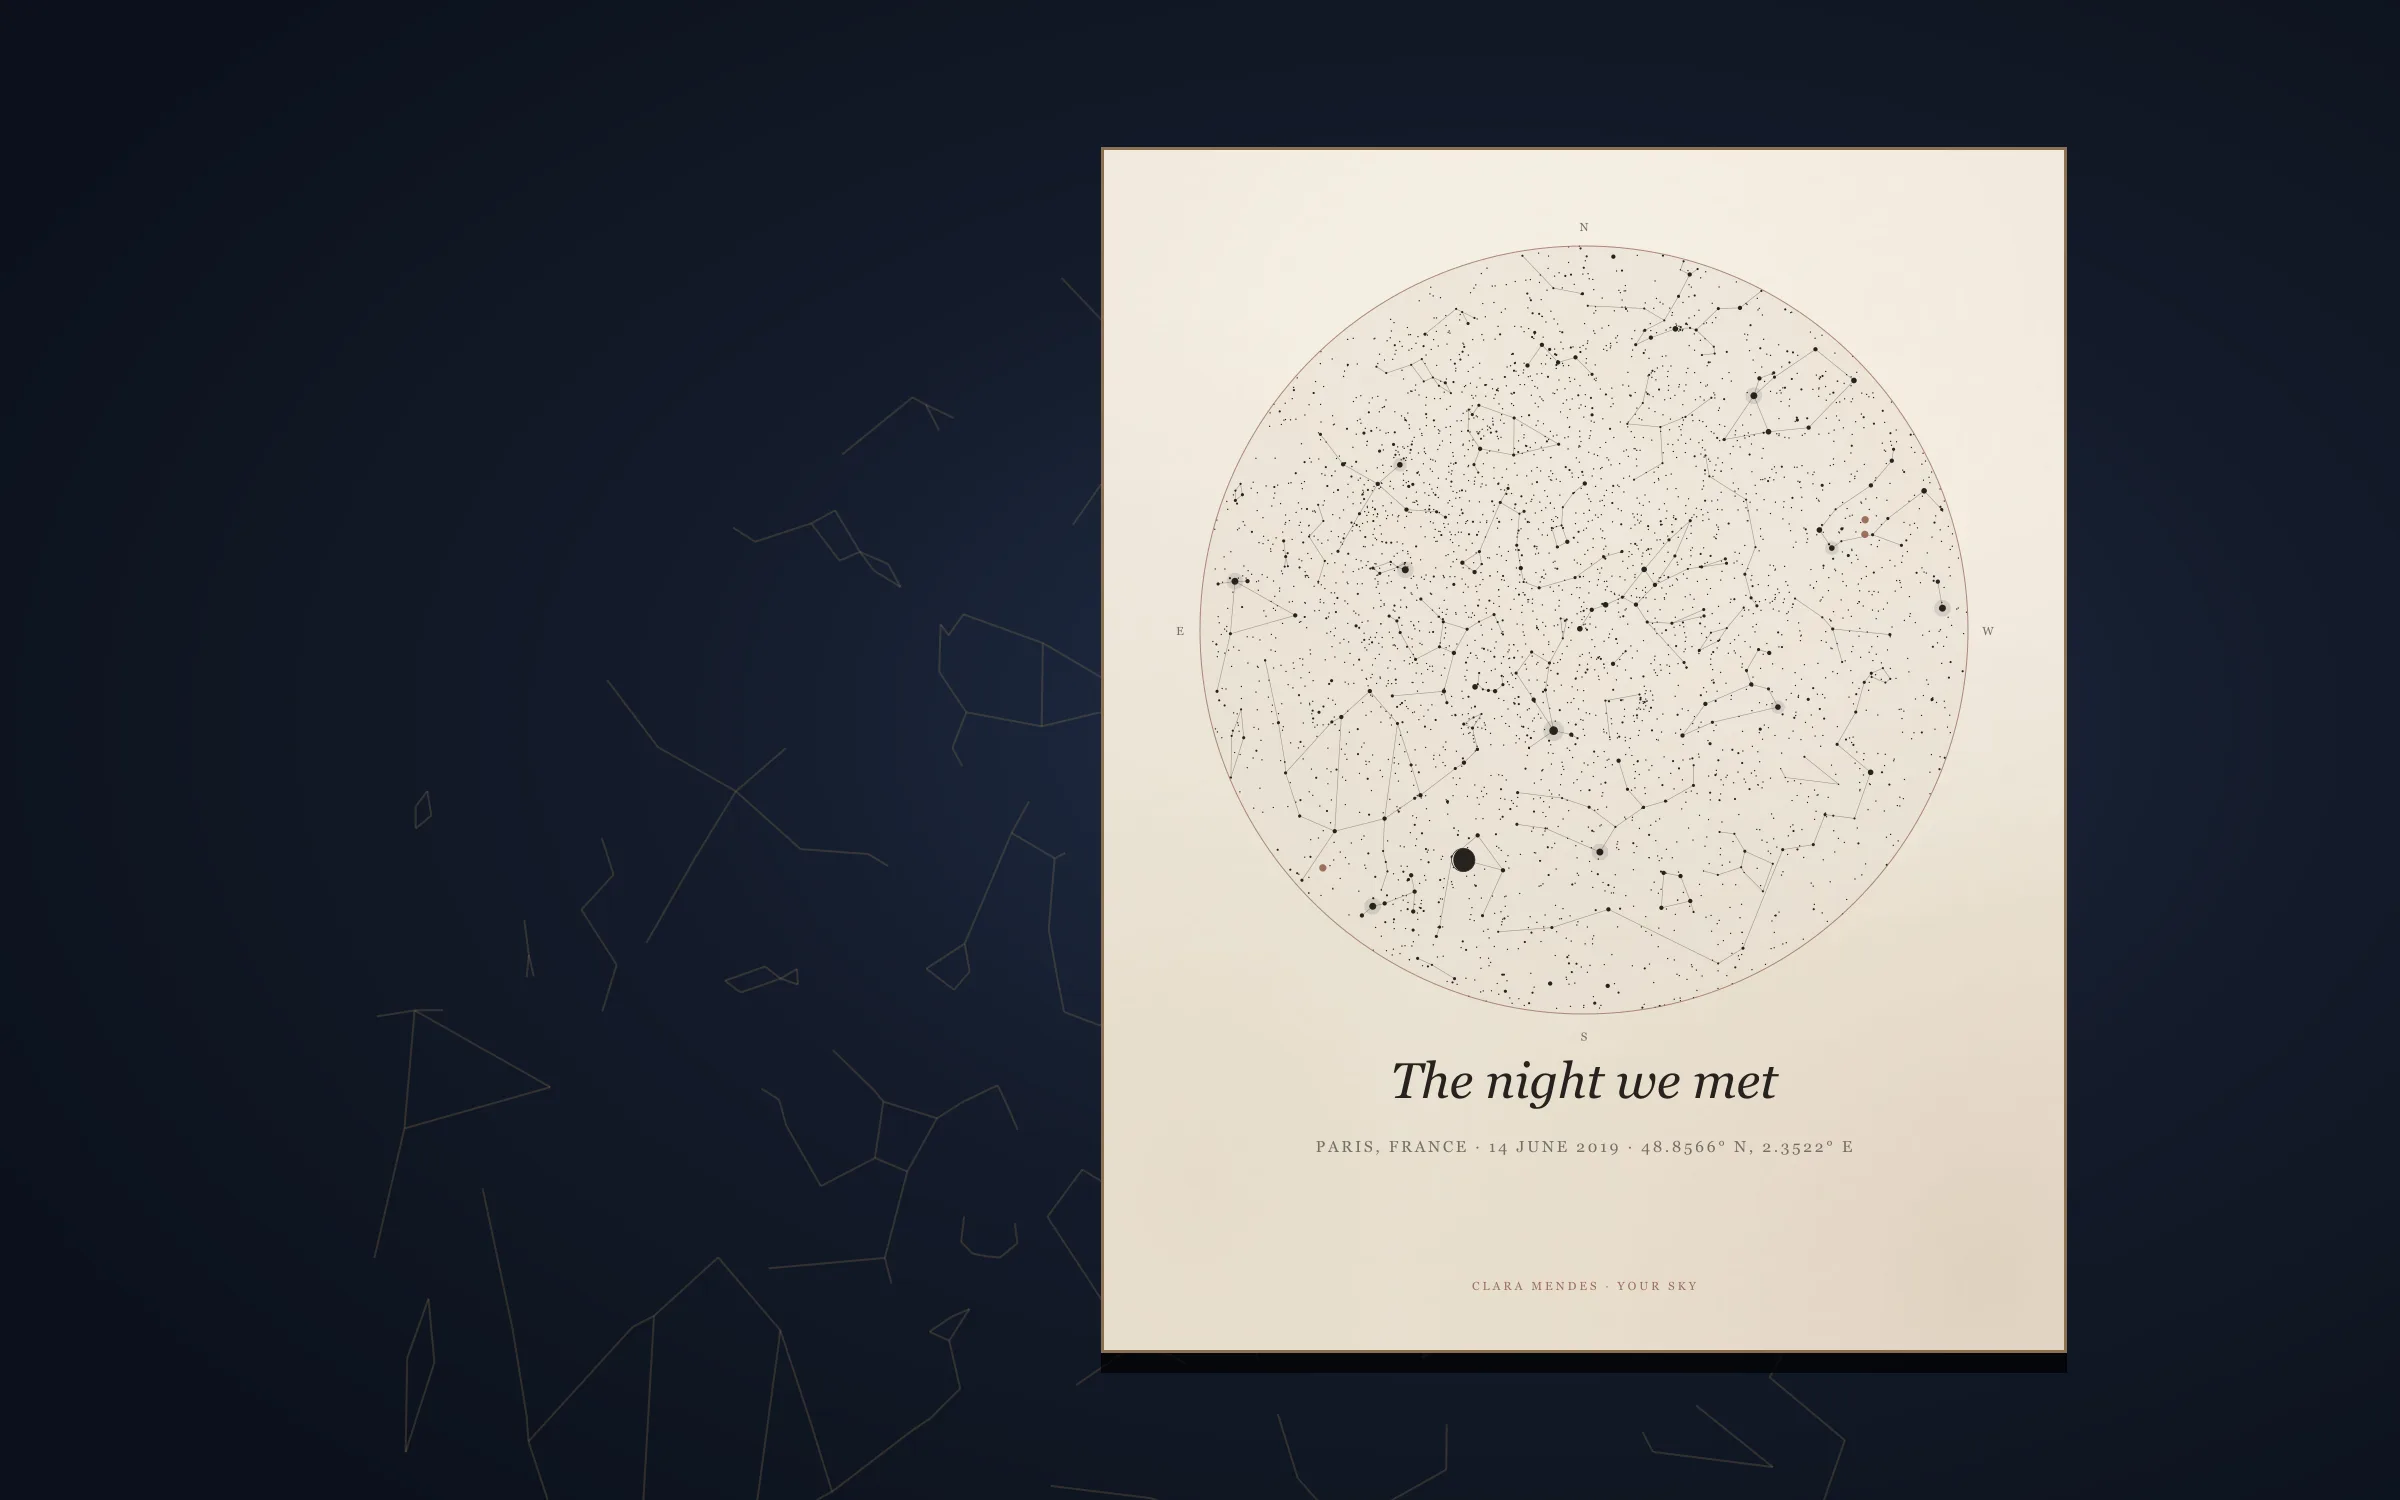
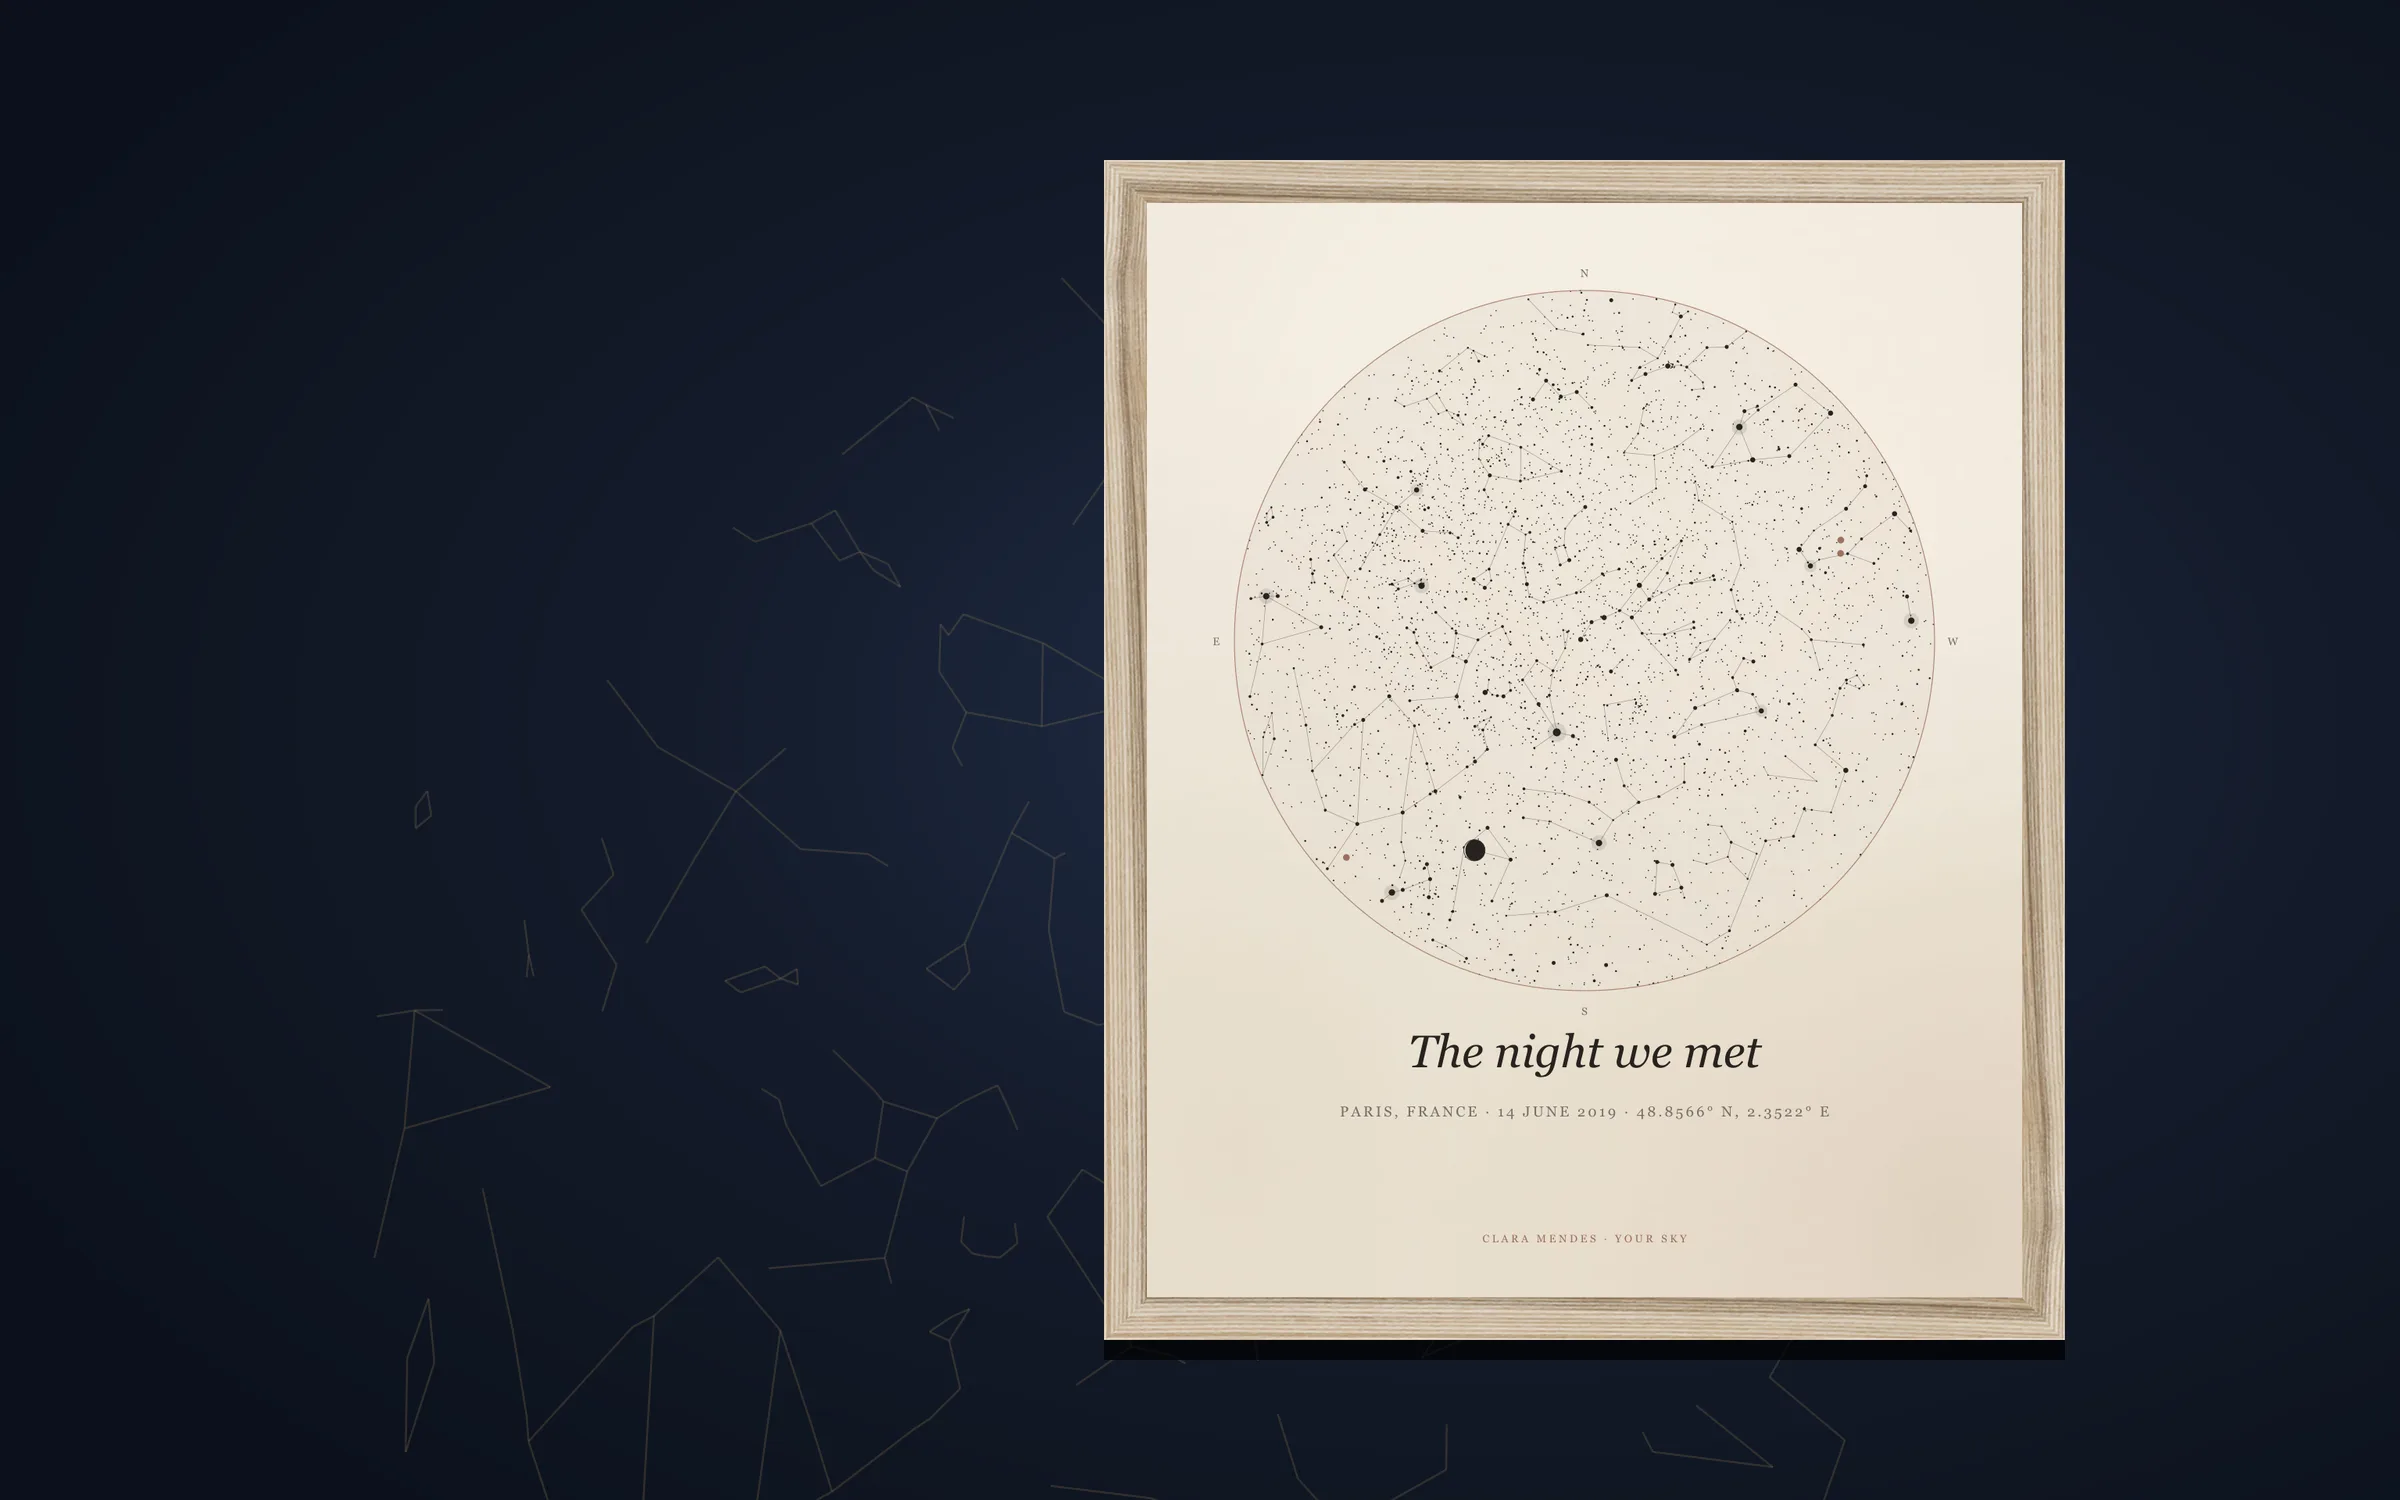
Fix the verifier's findings on the Your Sky page
- ProductPrice tolerates a missing price again: optimistic cart lines have
  no cost yet, and the drawer crashed store-wide on every add-to-cart.
- The hero print now sits inside Prodigi's Natural classic frame (the same
  frame sections the classic-frame mockups use), not a flat-colour border.
- The page loader lives in app/lib/featurePageLoader.ts and has a Node test:
  selected options forwarded, 404 when the flag is off (without querying),
  preview unlock, 404 for a missing product.
- The hero CTA keeps the site button's inline-flex, so its label is centred.

diff --git a/app/routes/your-sky.tsx b/app/routes/your-sky.tsx
@@ -7,18 +7,12 @@ import {
   type StudioVariant,
 } from '~/components/SkyStudio';
 import {StructuredData} from '~/components/StructuredData';
-import {PERSONALISED_RELEASE_FLAGS} from '~/lib/catalogFilters';
+import {loadFeaturePage} from '~/lib/featurePageLoader';
 import {YOUR_SKY_PAGE} from '~/lib/featurePages';
 import type {MoneyAmount} from '~/lib/money';
 import {PRODUCT_CARD_FRAGMENT} from '~/lib/productCardFragment';
 import {PRODUCT_VARIANT_FRAGMENT} from '~/lib/productVariantFragment';
-import {
-  breadcrumbSchema,
-  buildSeoMeta,
-  getCanonicalUrl,
-  productSchema,
-} from '~/lib/seo';
-import {DEFAULT_SKY_THEME} from '~/lib/sky/themes';
+import {breadcrumbSchema, buildSeoMeta, productSchema} from '~/lib/seo';
 import {STOREFRONT_ORIGIN} from '~/lib/storefrontBasics';
 
 const page = YOUR_SKY_PAGE;
@@ -42,27 +36,19 @@ export const meta: Route.MetaFunction = ({data}) =>
   });
 
 export async function loader({context, request}: Route.LoaderArgs) {
-  // The page follows the product's release flag; the preview environment
-  // may unlock it for end-to-end testing exactly as the product page does.
-  const released = PERSONALISED_RELEASE_FLAGS[page.handle];
-  const previewUnlocked = context.env.SKY_PREVIEW_UNLOCK === 'true';
-  if (!released && !previewUnlocked) {
-    throw new Response('Not found', {status: 404});
-  }
-  const data = await context.storefront.query(FEATURE_PRODUCT_QUERY, {
-    variables: {
-      handle: page.handle,
-      selectedOptions: getSelectedProductOptions(request),
+  // Release gate, storefront lookup and 404s live in loadFeaturePage so the
+  // plain-Node tests can drive them with a product fixture.
+  return loadFeaturePage<FeatureProduct>({
+    page,
+    env: context.env,
+    selectedOptions: getSelectedProductOptions(request),
+    fetchProduct: async (variables) => {
+      const data = await context.storefront.query(FEATURE_PRODUCT_QUERY, {
+        variables,
+      });
+      return {product: data.product as FeatureProduct | null};
     },
   });
-  if (!data.product) {
-    throw new Response('Not found', {status: 404});
-  }
-  return {
-    product: data.product as FeatureProduct,
-    seoUrl: getCanonicalUrl(request, page.path),
-    skyTheme: DEFAULT_SKY_THEME,
-  };
 }
 
 export default function YourSkyPage() {

diff --git a/app/lib/featurePageLoader.ts b/app/lib/featurePageLoader.ts
@@ -1,0 +1,52 @@
+// The feature page's loader logic, kept free of framework imports (relative
+// paths only) so the plain-Node test runner can exercise it with a product
+// fixture. The route supplies the storefront call and the parsed URL options.
+import {PERSONALISED_RELEASE_FLAGS} from './catalogFilters.ts';
+import type {FeaturePage} from './featurePages.ts';
+import {DEFAULT_SKY_THEME} from './sky/themes.ts';
+import {STOREFRONT_ORIGIN} from './storefrontBasics.ts';
+
+export type SelectedOption = {name: string; value: string};
+
+export type FeatureProductVariables = {
+  handle: string;
+  selectedOptions: SelectedOption[];
+};
+
+export type LoadFeaturePageInput<TProduct> = {
+  page: FeaturePage;
+  env: {SKY_PREVIEW_UNLOCK?: string};
+  selectedOptions: SelectedOption[];
+  fetchProduct: (
+    variables: FeatureProductVariables,
+  ) => Promise<{product: TProduct | null | undefined}>;
+  flags?: Record<string, boolean>;
+};
+
+/**
+ * 404s while the page's product is dark (unless the preview environment
+ * unlocks it, exactly as the product page does) or when Shopify has no such
+ * product; otherwise resolves the product with the URL's selected variant.
+ */
+export async function loadFeaturePage<TProduct>({
+  page,
+  env,
+  selectedOptions,
+  fetchProduct,
+  flags = PERSONALISED_RELEASE_FLAGS,
+}: LoadFeaturePageInput<TProduct>) {
+  const released = Boolean(flags[page.handle]);
+  const previewUnlocked = env.SKY_PREVIEW_UNLOCK === 'true';
+  if (!released && !previewUnlocked) {
+    throw new Response('Not found', {status: 404});
+  }
+  const {product} = await fetchProduct({handle: page.handle, selectedOptions});
+  if (!product) {
+    throw new Response('Not found', {status: 404});
+  }
+  return {
+    product,
+    seoUrl: new URL(page.path, STOREFRONT_ORIGIN).toString(),
+    skyTheme: DEFAULT_SKY_THEME,
+  };
+}

diff --git a/app/components/ProductPrice.tsx b/app/components/ProductPrice.tsx
@@ -1,15 +1,19 @@
 import {formatMoney, type MoneyAmount} from '~/lib/money';
 
+// Cart lines added optimistically have no cost yet, so the price is optional
+// and the box keeps its height until the real line arrives.
 export function ProductPrice({
   compareAtPrice,
   price,
 }: {
   compareAtPrice?: MoneyAmount | null;
-  price: MoneyAmount;
+  price?: MoneyAmount | null;
 }) {
   return (
-    <div className="product-price">
-      {compareAtPrice ? (
+    <div aria-label="Price" className="product-price" role="group">
+      {!price ? (
+        <span>&nbsp;</span>
+      ) : compareAtPrice ? (
         <span className="product-price-on-sale">
           {formatMoney(price)} <s>{formatMoney(compareAtPrice)}</s>
         </span>

diff --git a/app/styles/app.css b/app/styles/app.css
@@ -3636,7 +3636,6 @@ html.lenis body {
 }
 
 .your-sky-hero-cta {
-  display: inline-block;
   text-decoration: none;
 }
 

diff --git a/docs/superpowers/specs/2026-09-02-your-sky-feature-page-design.md b/docs/superpowers/specs/2026-09-02-your-sky-feature-page-design.md
@@ -150,7 +150,7 @@ scarcity language (same rule as the original Your Sky spec).
   `VariantOptions`, `ProductPrice`, `formatMoney` into
   `app/components/VariantOptions.tsx` / `app/components/ProductPrice.tsx` /
   `app/lib/money.ts`; extract the product query + fragments into
-  `app/lib/productQuery.ts`. The PDP keeps its sky/natal branches (First
+  `app/lib/productVariantFragment.ts` (the shared variant fragment; the page keeps its own `FEATURE_PRODUCT_QUERY` in the route). The PDP keeps its sky/natal branches (First
   Light still renders there until it moves).
 - `app/components/ClaraShell.tsx` — nav entry for Your Sky → `/your-sky`
   (from the feature config).
